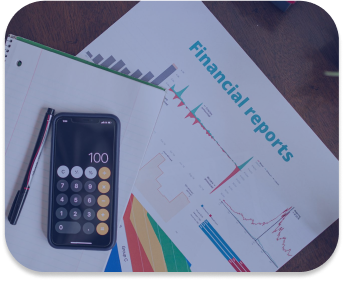
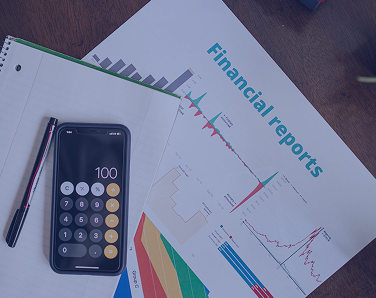
finish Home Page

diff --git a/src/componants/Hero/Hero.jsx b/src/componants/Hero/Hero.jsx
@@ -1,34 +1,33 @@
-import React from 'react'
-import StartTrakingNow from '../Hero/StartTrakingNow'
-import heroImg from '../../assets/heroImg.png'
+import React from 'react';
+import StartTrakingNow from '../Hero/StartTrakingNow';
+import heroImg from '../../assets/hero.png';
 
 const Hero = () => {
   return (
-    <div className='container p-6 relative'>
-        <div className='flex flex-col text-center lg:text-start gap-6 items-center lg:items-start lg:mt-18 '>
-            <div className='lg:h-[288px] lg:w-[715px] text-primary'>
-                <h1 className=' text-[22px] md:text-[40px] lg:text-[60px] leading-[33px] md:leading-[55px] lg:leading-[76px] lg:w-[735px] lg:h-[228px] font-black '>
-                    Track your shipments with ease and <br className="hidden lg:block"/>efficiency
-                </h1>
-                <p className='text-[7px] md:text-[12px] lg:text-[18px]'>
-                    Easily track your packages, shipments, and deliveries with our advanced<br/> tracking system. Stay updated in real time with accurate location details.
-                </p>
-            </div>
-            <StartTrakingNow />
-           
+    <div className="relative w-full h-screen lg:h-[794px] flex items-center justify-center text-center lg:text-left overflow-hidden">
+      {/* Background Image */}
+      <div className="absolute inset-0">
+        <img
+          src={heroImg}
+          alt="Hero Illustration"
+          className="w-full h-full object-cover"
+        />
+      </div>
+      
+      {/* Content on top of the background */}
+      <div className="absolute container flex flex-col items-center lg:items-start text-white gap-6 ">
+        <div className="lg:h-[288px] lg:w-[715px] text-white lg:mt-20">
+          <h1 className="text-[22px] md:text-[40px] lg:text-[60px] leading-[33px] md:leading-[55px] lg:leading-[76px] font-black">
+            Track your shipments with ease and <br className="hidden lg:block" /> efficiency
+          </h1>
+          <p className="text-[7px] md:text-[12px] lg:text-[18px]">
+            Easily track your packages, shipments, and deliveries with our advanced <br /> tracking system. Stay updated in real time with accurate location details.
+          </p>
         </div>
-
-        <div className="absolute right-0 bottom-0 md:bottom-auto top-45 w-full md:w-auto">
-                <img
-                    src={heroImg}
-                    alt="Hero Illustration"
-                    className="max-w-full h-auto"
-                />
-            </div>
-
-        
+        <StartTrakingNow />
+      </div>
     </div>
-  )
-}
+  );
+};
 
-export default Hero
+export default Hero;

diff --git a/src/componants/Testimonials/TestimonialsCarte.jsx b/src/componants/Testimonials/TestimonialsCarte.jsx
@@ -1,0 +1,41 @@
+import React from 'react'
+import profile1 from '../../assets/profile1.png'
+import profile2 from '../../assets/profile2.png'  
+import profile3 from '../../assets/profile3.png'  
+
+
+const Data = [
+    {
+        img : {profile1},
+        name : "Hannah Schmitt",
+        title : "lead designer",
+        description : "Lorem ipsum dolor sit amet, consectetur adipiscing elit. Cursus nibh mauris, nec turpis orci lectus maecenas. Suspendisse sed magna eget nibh in turpis. Consequat duis diam lacus arcu. Faucibus venenatis felis id augue sit cursus pellentesque enim "
+    },
+
+    {
+        img : {profile2},
+        name : "Hannah Schmitt",
+        title : "lead designer",
+        description : "Lorem ipsum dolor sit amet, consectetur adipiscing elit. Cursus nibh mauris, nec turpis orci lectus maecenas. Suspendisse sed magna eget nibh in turpis. Consequat duis diam lacus arcu. Faucibus venenatis felis id augue sit cursus pellentesque enim "
+    },
+
+    {
+        img : {profile3},
+        name : "Hannah Schmitt",
+        title : "lead designer",
+        description : "Lorem ipsum dolor sit amet, consectetur adipiscing elit. Cursus nibh mauris, nec turpis orci lectus maecenas. Suspendisse sed magna eget nibh in turpis. Consequat duis diam lacus arcu. Faucibus venenatis felis id augue sit cursus pellentesque enim "
+    }
+]
+
+const TestimonialsCarte = () => {
+  return (
+    <div>
+        <div>
+            
+        </div>
+        
+    </div>
+  )
+}
+
+export default TestimonialsCarte

diff --git a/src/componants/ContactUs/ContactUs.jsx b/src/componants/ContactUs/ContactUs.jsx
@@ -9,7 +9,7 @@ const ContactUs = () => {
     <div className='bg-primary text-white '>
         <div className='flex flex-col-reverse md:flex-row md:gap-8  md:pb-10 lg:ml-10'>
         <div className=''>
-            <img src={groupContactUs} className='ml-20 rotate-270 md:rotate-0 w-[300px] h-[498px] md:w-[400px] md:h-[580px] md:mt-20 md:ml-2' />
+            <img src={groupContactUs} className='ml-20 rotate-270 md:rotate-0 w-[300px] h-[498px] md:w-[400px] md:h-[580px] -mb-25 md:mt-20 md:ml-2' />
         </div>
         <div>
         <div className='flex flex-col my-10'>
@@ -20,7 +20,7 @@ const ContactUs = () => {
             <input placeholder='Full Name' className='border-b-2 p-2' />
             <input placeholder='E-mail' className='border-b-2 p-2'/>
             <input placeholder='Message'className='border-b-2 p-2' />
-            <button className='bg-secondaire w-[196px] h-[40px] text-center text-black font-semibold rounded-2xl'>Contact Us</button>
+            <button className='bg-secondaire w-[196px] h-[40px] text-center text-[24px]  text-white rounded-2xl'>Contact Us</button>
         </form>
         
         <div className='flex flex-col gap-10 text-start p-2 '>

diff --git a/src/componants/Testimonials/Testimonials.jsx b/src/componants/Testimonials/Testimonials.jsx
@@ -1,8 +1,18 @@
 import React from 'react'
+import { FaArrowLeft } from "react-icons/fa";
+import { FaArrowRight } from "react-icons/fa";
+
 
 const Testimonials = () => {
   return (
-    <div>Testimonials</div>
+    <div>
+      <h1 className='font-semibold text-primary text-center my-20 text-[85px]'>Testimonials</h1>
+      <div className='flex justify-between items-center text-primary px-80'>
+        <FaArrowLeft />
+        <p className='text-[26px] font-semibold'>What Our Clients Say About Us</p>
+        <FaArrowRight />
+      </div>
+    </div>
   )
 }
 

diff --git a/src/componants/Navbar/Navbar.jsx b/src/componants/Navbar/Navbar.jsx
@@ -43,7 +43,7 @@ const Navbar = () => {
         <div className=" shadow-2xs p-4 fixed top-0 left-0 right-0 z-50 bg-white">
             <div className="container flex justify-between items-center text-center">
                 <div id="Logo">
-                    <img src={logo} alt="Logo" href='/' className='' />
+                    <img src={logo} alt="Logo" href='/' className='w-[107px] h-[32px] md:w-[187px] md:h-[55px] lg:w-[200px] lg:h-[60px]' />
                 </div>
 
                 <div className="hidden lg:flex items-center gap-10">

diff --git a/src/componants/Quotes/Quotes.jsx b/src/componants/Quotes/Quotes.jsx
@@ -4,7 +4,7 @@ const Quotes = ({ img, text }) => {
   return (
     <div className='relative '>
       <img src={img} className='' alt='Background' />
-      <q className='absolute top-1/2 font-semibold left-1/16 text-center text-white text-[17px] md:text-[35px] lg:text-[54px]'>
+      <q className='absolute top-1/2 left-1/2 transform -translate-x-1/2 -translate-y-1/2 font-semibold text-center text-white text-[12px] md:text-[30px] lg:text-[48px] whitespace-nowrap '>
         {text}
       </q>
     </div>

diff --git a/src/componants/HowItWork/HowItWork.jsx b/src/componants/HowItWork/HowItWork.jsx
@@ -3,7 +3,7 @@ import HowCarte from '../HowItWork/HowCarte'
 
 const HowItWork = () => {
   return (
-    <div className='bg-primary  mt-60 md:mt-100 lg:mt-80'>
+    <div className='bg-primary '>
         <div className='container p-6'>
             <div className='text-center text-white font-black text-[36px] md:text-[85px]'>
                 <h2 className=''>
